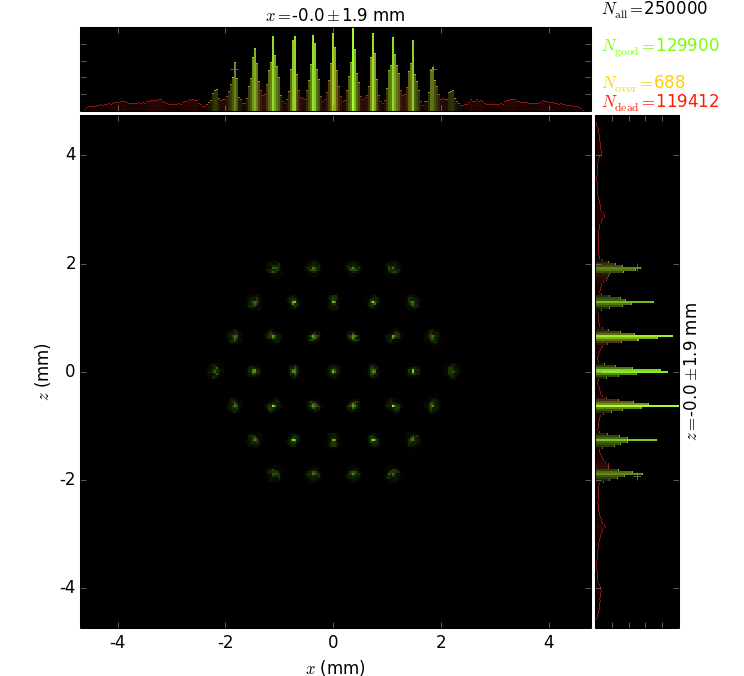
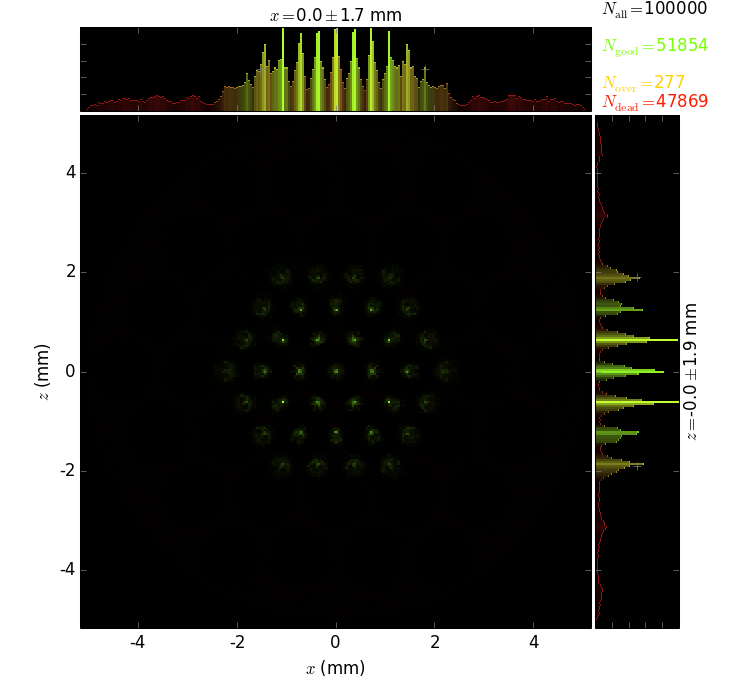
screen f+100

diff --git a/myCapillary0A.py b/myCapillary0A.py
@@ -126,7 +126,7 @@ def build_beamline(nrays=1000):
 #    beamLine.sources[0].dxprime = (np.arcsin((2*n-3) * (r0+wall) / rSample),
 #        np.arcsin((2*n+1) * (r0+wall) / rSample))
 #    beamLine.sources[0].dxprime = 0, np.arcsin(r0 / rSample)
-    beamLine.fsm2 = rsc.Screen(beamLine, 'DiamondFSM2', (0, f+50, 0))
+    beamLine.fsm2 = rsc.Screen(beamLine, 'DiamondFSM2', (0, f+100, 0))
     return beamLine
 
 def run_process(beamLine, shineOnly1stSource=False):
@@ -195,7 +195,7 @@ def main():
     plot.baseName = 'NCapillaries-a-FSM1Cat'
     plot.saveName = plot.baseName + '.png'
     plots.append(plot)
-    xrtr.run_ray_tracing(plots, repeats=1000, beamLine=beamLine,
+    xrtr.run_ray_tracing(plots, repeats=100, beamLine=beamLine,
                          processes=2)
 
 #    for i in beamLine.firstInLayer:
